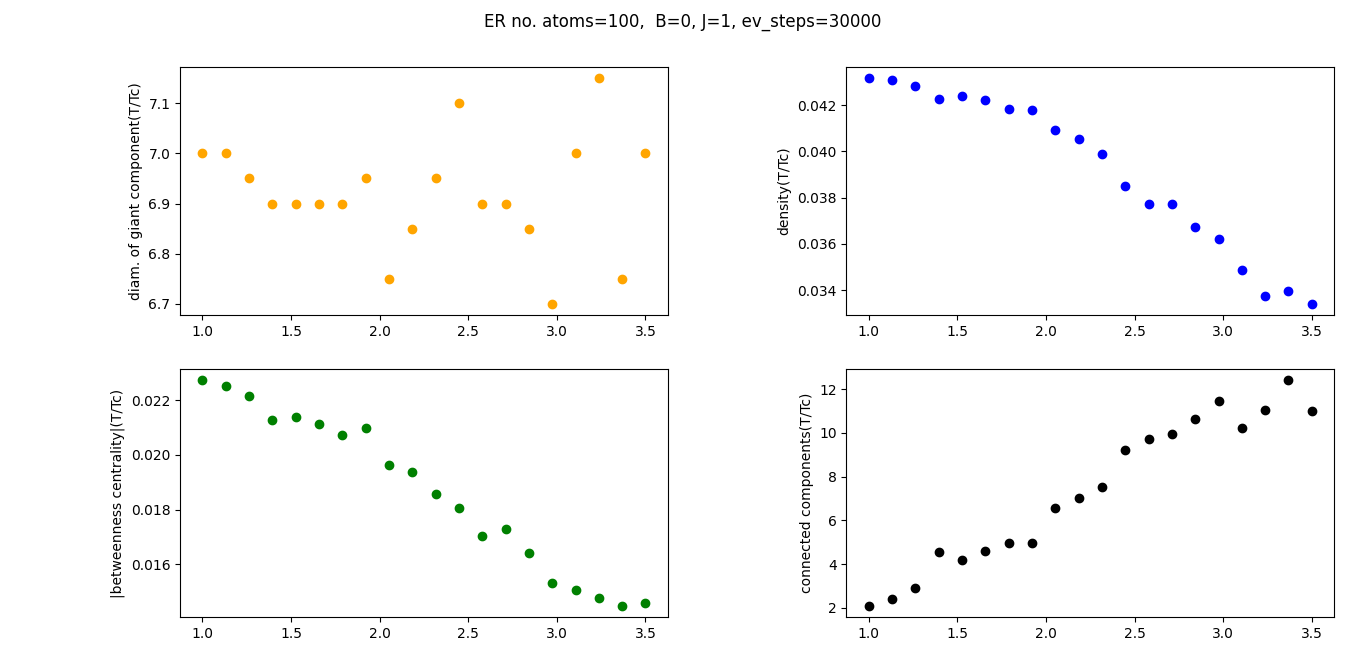
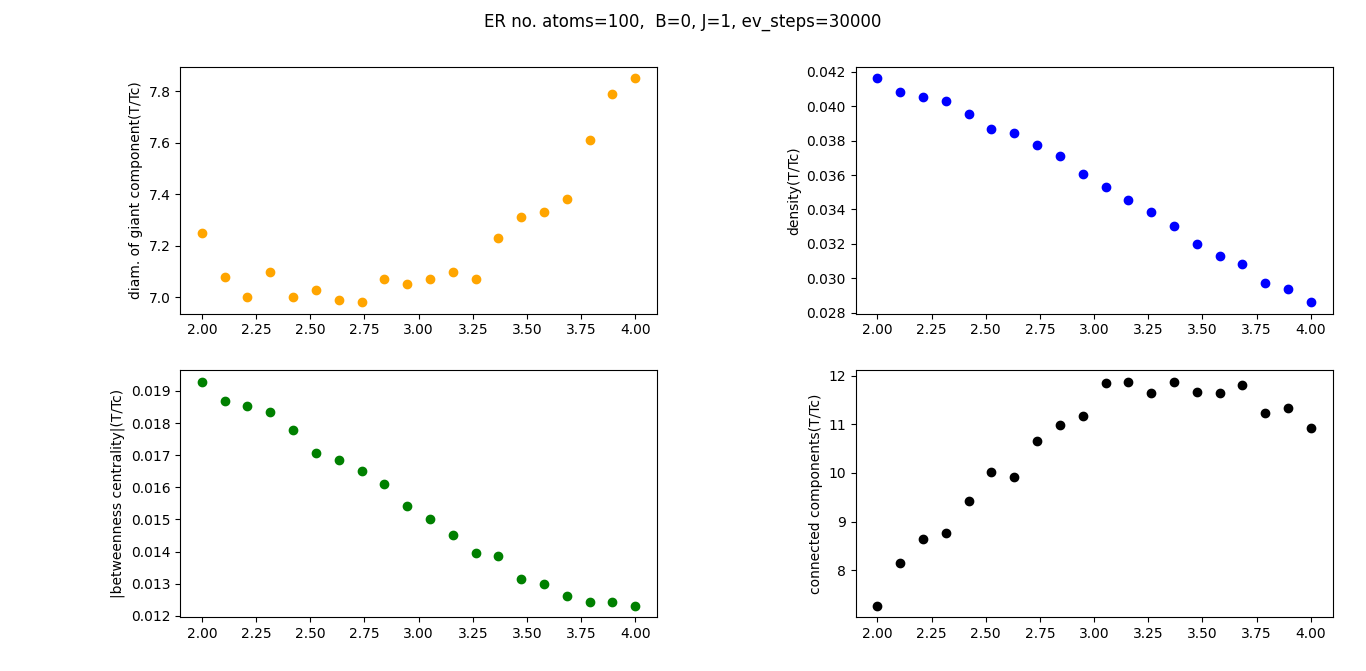
better results

diff --git a/sweep_on_p_fit.py b/sweep_on_p_fit.py
@@ -1,0 +1,25 @@
+import numpy as np
+import matplotlib.pyplot as plt
+from matplotlib.patches import Rectangle
+import scipy as sp
+
+M=N=10
+Tc = np.loadtxt('p sweep plots/psweep_Tc.csv')
+p = np.loadtxt('p sweep plots/psweep_p.csv')
+
+line = sp.stats.linregress(p, Tc)
+slope = line[0]
+intercept = line[1]
+
+plt.scatter(p, Tc)
+plt.plot(p, slope*p+intercept, label='fit')
+
+extra = Rectangle((0, 0), 1, 1, fc="w", fill=False, edgecolor='none', linewidth=0)
+text1 = f'slope = {slope}'
+text2 = f'intercept = {intercept}'
+plt.legend([extra, extra],[text1, text2], title='Fit parameters')
+
+plt.title('ER Critical temperature')
+plt.xlabel('p')
+plt.ylabel('Tc')
+plt.show()

diff --git a/ising_network_clustering_sweep_v5.py b/ising_network_clustering_sweep_v5.py
@@ -7,9 +7,9 @@ from numba import jit
 
 time_start = time.perf_counter()
 
-lattice_type = 'hexagonal'            #write square, triangular or hexagonal
-M = 8
-N = 6
+lattice_type = 'ER'            #write square, triangular or hexagonal
+M = 10
+N = 10
 J = 1
 B = 0
 steps = 30000
@@ -28,7 +28,7 @@ elif lattice_type == "triangular":
     T = np.linspace(0.5*Tc_t, 1.5*Tc_t, 20) 
     Tc = Tc_t
 elif lattice_type == "ER":
-    T = np.linspace(1, 3.5, 20) 
+    T = np.linspace(2, 4, 20) 
     Tc = 1
 else: print("Errore!")
 
